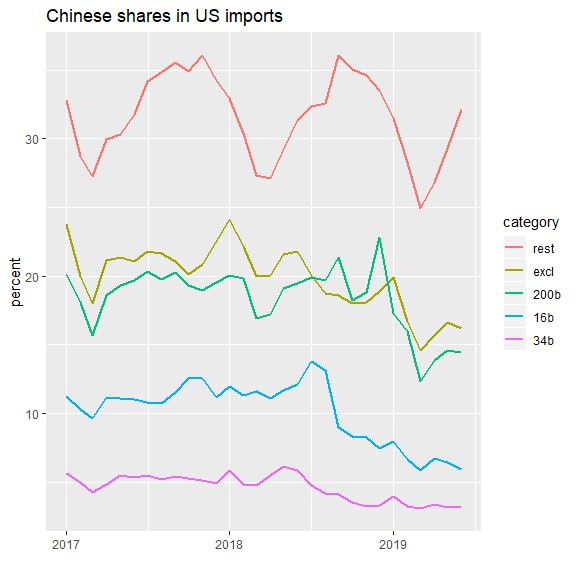
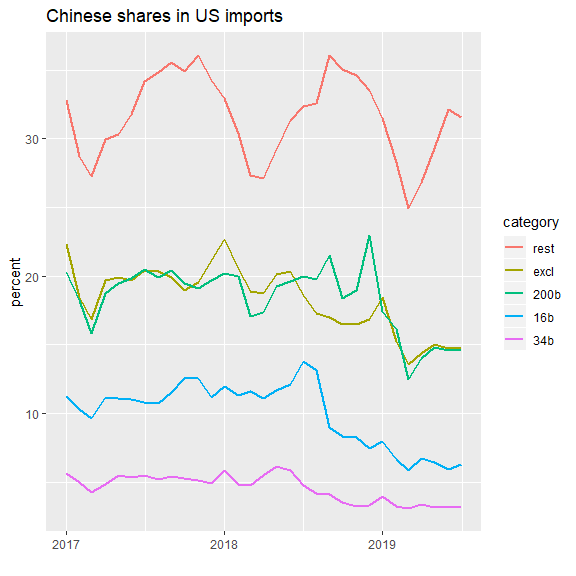
update July 2019

diff --git a/README.md b/README.md
@@ -16,7 +16,7 @@ Mitsuo Shiota
   - [Look at the Chinese share
     movements](#look-at-the-chinese-share-movements)
 
-Updated: 2019-08-05
+Updated: 2019-09-05
 
 I began to use censusapi package.
 
@@ -105,15 +105,15 @@ claims.
 So far USTR announced exclusion lists 8 times. They specify products
 simply by HTS 10 digit code, or by product description and HTS 10 digit
 code it belong to. When I caluculate simply by HTS 10 digit code,
-exclusions amount to 19 billion dollars annually.
+exclusions amount to 16.8 billion dollars annually.
 
 ## Look at the Chinese share movements
 
 I get imports from China and total imports from January 2017 up to now,
 and calculate Chinese shares in imports in each category that is “34b”,
 “16b”, “200b” imposed tariffs effective on July 6, 2018, August 23,
-2018, and September 24, 2018, “excl” which is excluded, and
-“the rest” which is not imposed tariffs.
+2018, and September 24, 2018, “excl” which is excluded, and “the rest”
+which is not imposed tariffs.
 
 What can I say from the chart below?
 
@@ -146,10 +146,9 @@ What can I say from the chart below?
 
 To confirm the point \#1 above, I draw the distribution of 2018 Chinese
 shares in HTS 10 digit goods by each tariff schedule category. Chinese
-shares in “excl” are much higher than "34b", "16b" and "200b" from which “excl” is
-excluded. As the shares in “rest” are as high as those of “excl”, USTR
-will receive massive product exclusion requests, if they impose tariffs
-on “rest”.
+shares in “excl” are much higher than “34b”, “16b” and “200b” from which
+“excl” is excluded. As the shares in “rest” are as high as those of
+“excl”, USTR will receive massive product exclusion requests, as they imposed 15 percent tariffs on September 1, and will impose on December 15, 2019.
 
 ![](README_files/figure-gfm/boxplot-1.png)<!-- -->
 
